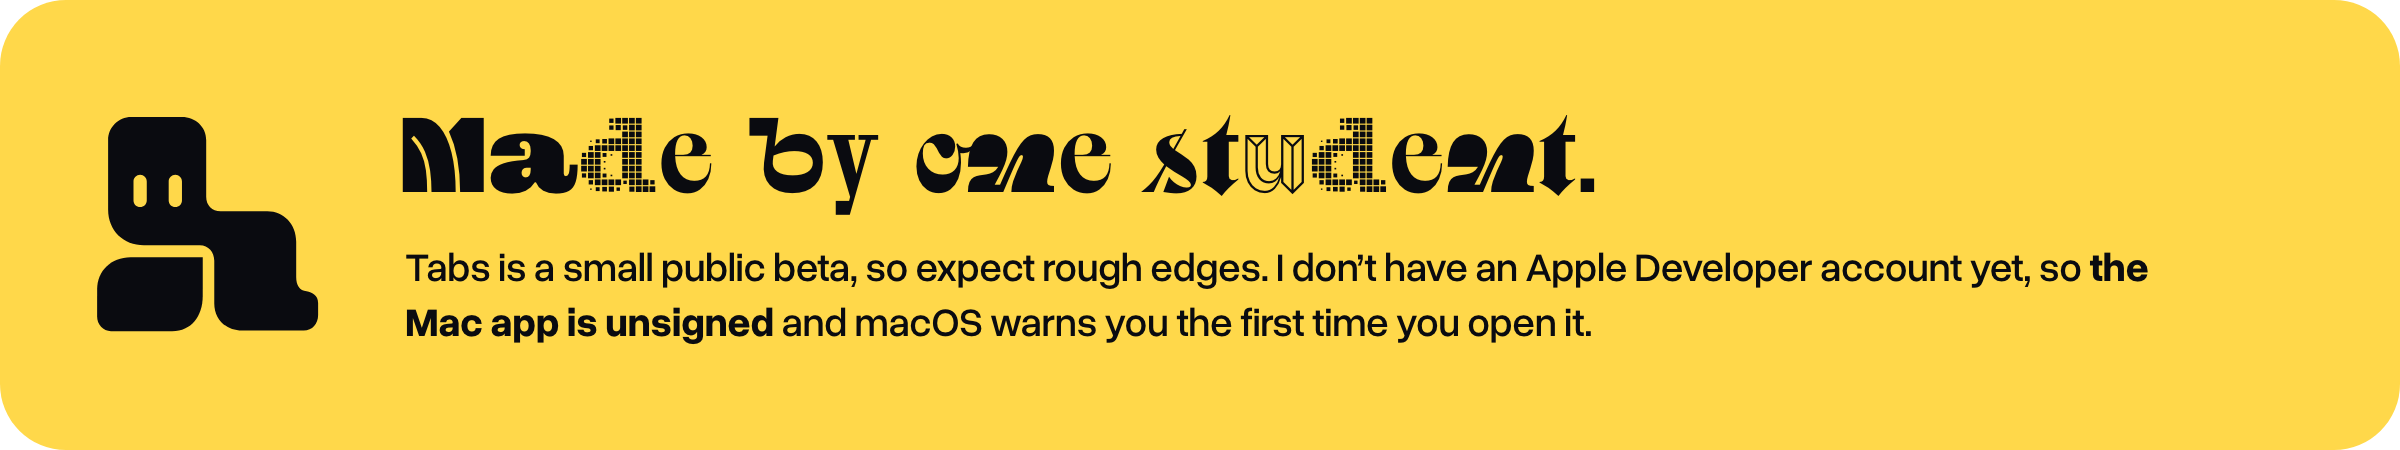
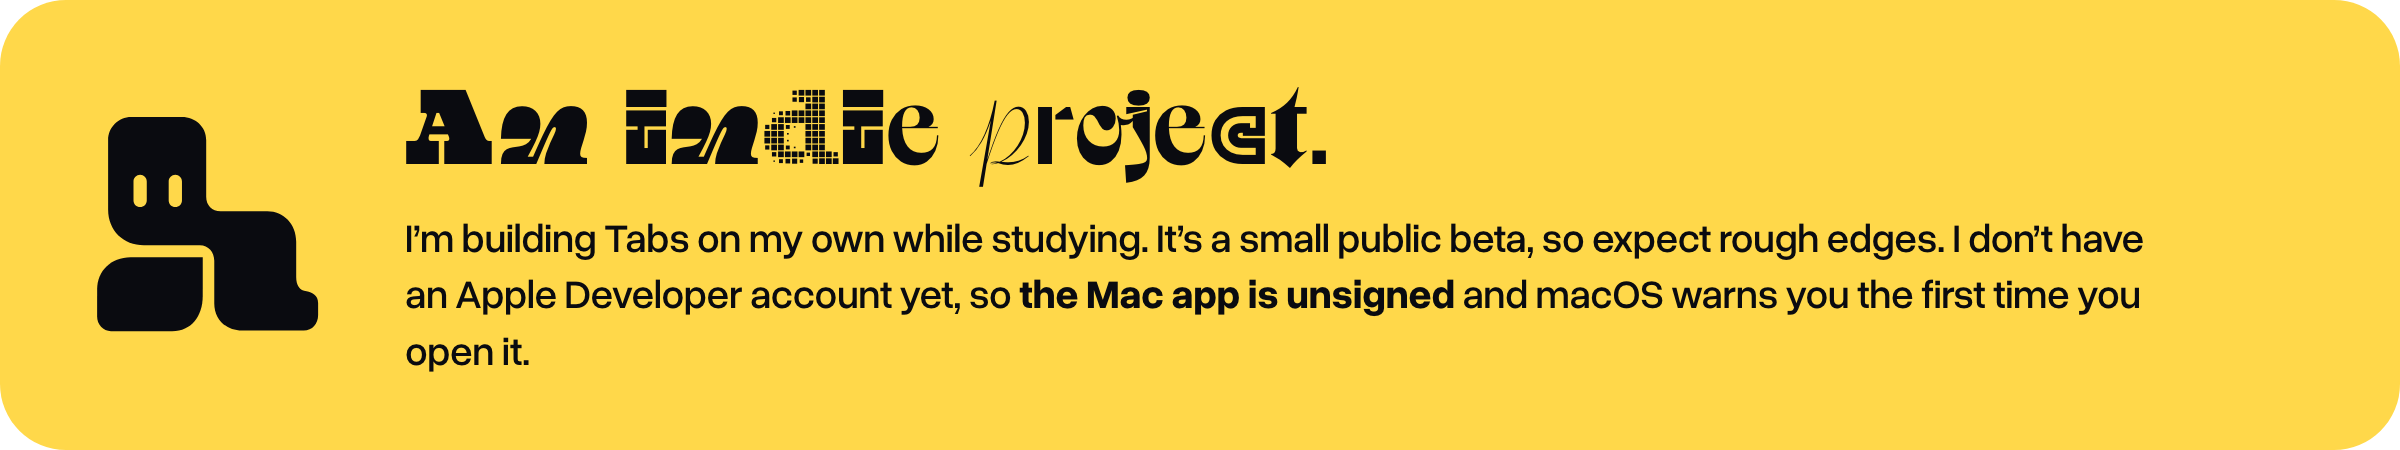
Reword the README note as an indie project [skip ci]

Changed region(s): [[0.1562, 0.4978, 0.9062, 0.8089], [0.1562, 0.1867, 0.6875, 0.4667]]

diff --git a/docs/launch-film/readme-art.html b/docs/launch-film/readme-art.html
@@ -63,7 +63,7 @@
   <div class="step s2"><small>STEP 2 · THE APP</small><code>tabs-app/</code><h2>Run.</h2><p>Tabs itself. This is the folder you start the app from, every time.</p><kbd>bun run dev:desktop</kbd></div>
 </div>
 <div class="card" id="tools"><div class="tile" style="background:#f3efe9"><h3>Code.</h3><p>A full editor, built in.</p><div class="crop"><img src="out/still-13.40.jpg" /></div></div><div class="tile" style="background:#8fe0c8"><h3>Agents.</h3><p>Claude, Codex, Cursor and more.</p><div class="crop"><img src="out/still-16.20.jpg" /></div></div><div class="tile" style="background:#ffd84a"><h3>Terminal.</h3><p>Dev servers, side by side.</p><div class="crop"><img src="out/still-18.30.jpg" /></div></div><div class="tile" style="background:#b9a6ff"><h3>Browser.</h3><p>Preview your local site.</p><div class="crop"><img src="out/still-19.20.jpg" /></div></div><div class="tile" style="background:#ff8a66"><h3>Git.</h3><p>Review, commit, ship.</p><div class="crop"><img src="out/still-21.10.jpg" /></div></div><div class="tile" style="background:#ff9fd0"><h3>Anything.</h3><p>Pin any site or CLI.</p><div class="crop"><img src="out/still-22.20.jpg" /></div></div></div>
-<div class="card" id="note"><svg viewBox="0 0 390 390" id="m2"></svg><div><h2>Made by one student.</h2><p>Tabs is a small public beta, so expect rough edges. I don’t have an Apple Developer account yet, so <b>the Mac app is unsigned</b> and macOS warns you the first time you open it.</p></div></div>
+<div class="card" id="note"><svg viewBox="0 0 390 390" id="m2"></svg><div><h2>An indie project.</h2><p>I’m building Tabs on my own while studying. It’s a small public beta, so expect rough edges. I don’t have an Apple Developer account yet, so <b>the Mac app is unsigned</b> and macOS warns you the first time you open it.</p></div></div>
 <div class="card banner" id="h-get" style="background:var(--blue);color:var(--ivory)"><h2>Get Tabs.</h2><span>3 steps</span></div>
 <div class="card banner" id="h-build" style="background:var(--ink);color:var(--ivory)"><h2>Build it yourself.</h2><span>from source</span></div>
 <div class="card banner" id="h-agents" style="background:#8fe0c8;color:var(--ink)"><h2>Bring your agents.</h2><span>your accounts</span></div>

diff --git a/README.md b/README.md
@@ -8,7 +8,7 @@
 
 </div>
 
-<img src="docs/readme/note.png" alt="Made by one student. Tabs is a small public beta, so expect rough edges. I don’t have an Apple Developer account yet, so the Mac app is unsigned and macOS warns you the first time you open it." width="100%" />
+<img src="docs/readme/note.png" alt="An indie project. I’m building Tabs on my own while studying. It’s a small public beta, so expect rough edges. I don’t have an Apple Developer account yet, so the Mac app is unsigned and macOS warns you the first time you open it." width="100%" />
 
 <div align="center">
 
